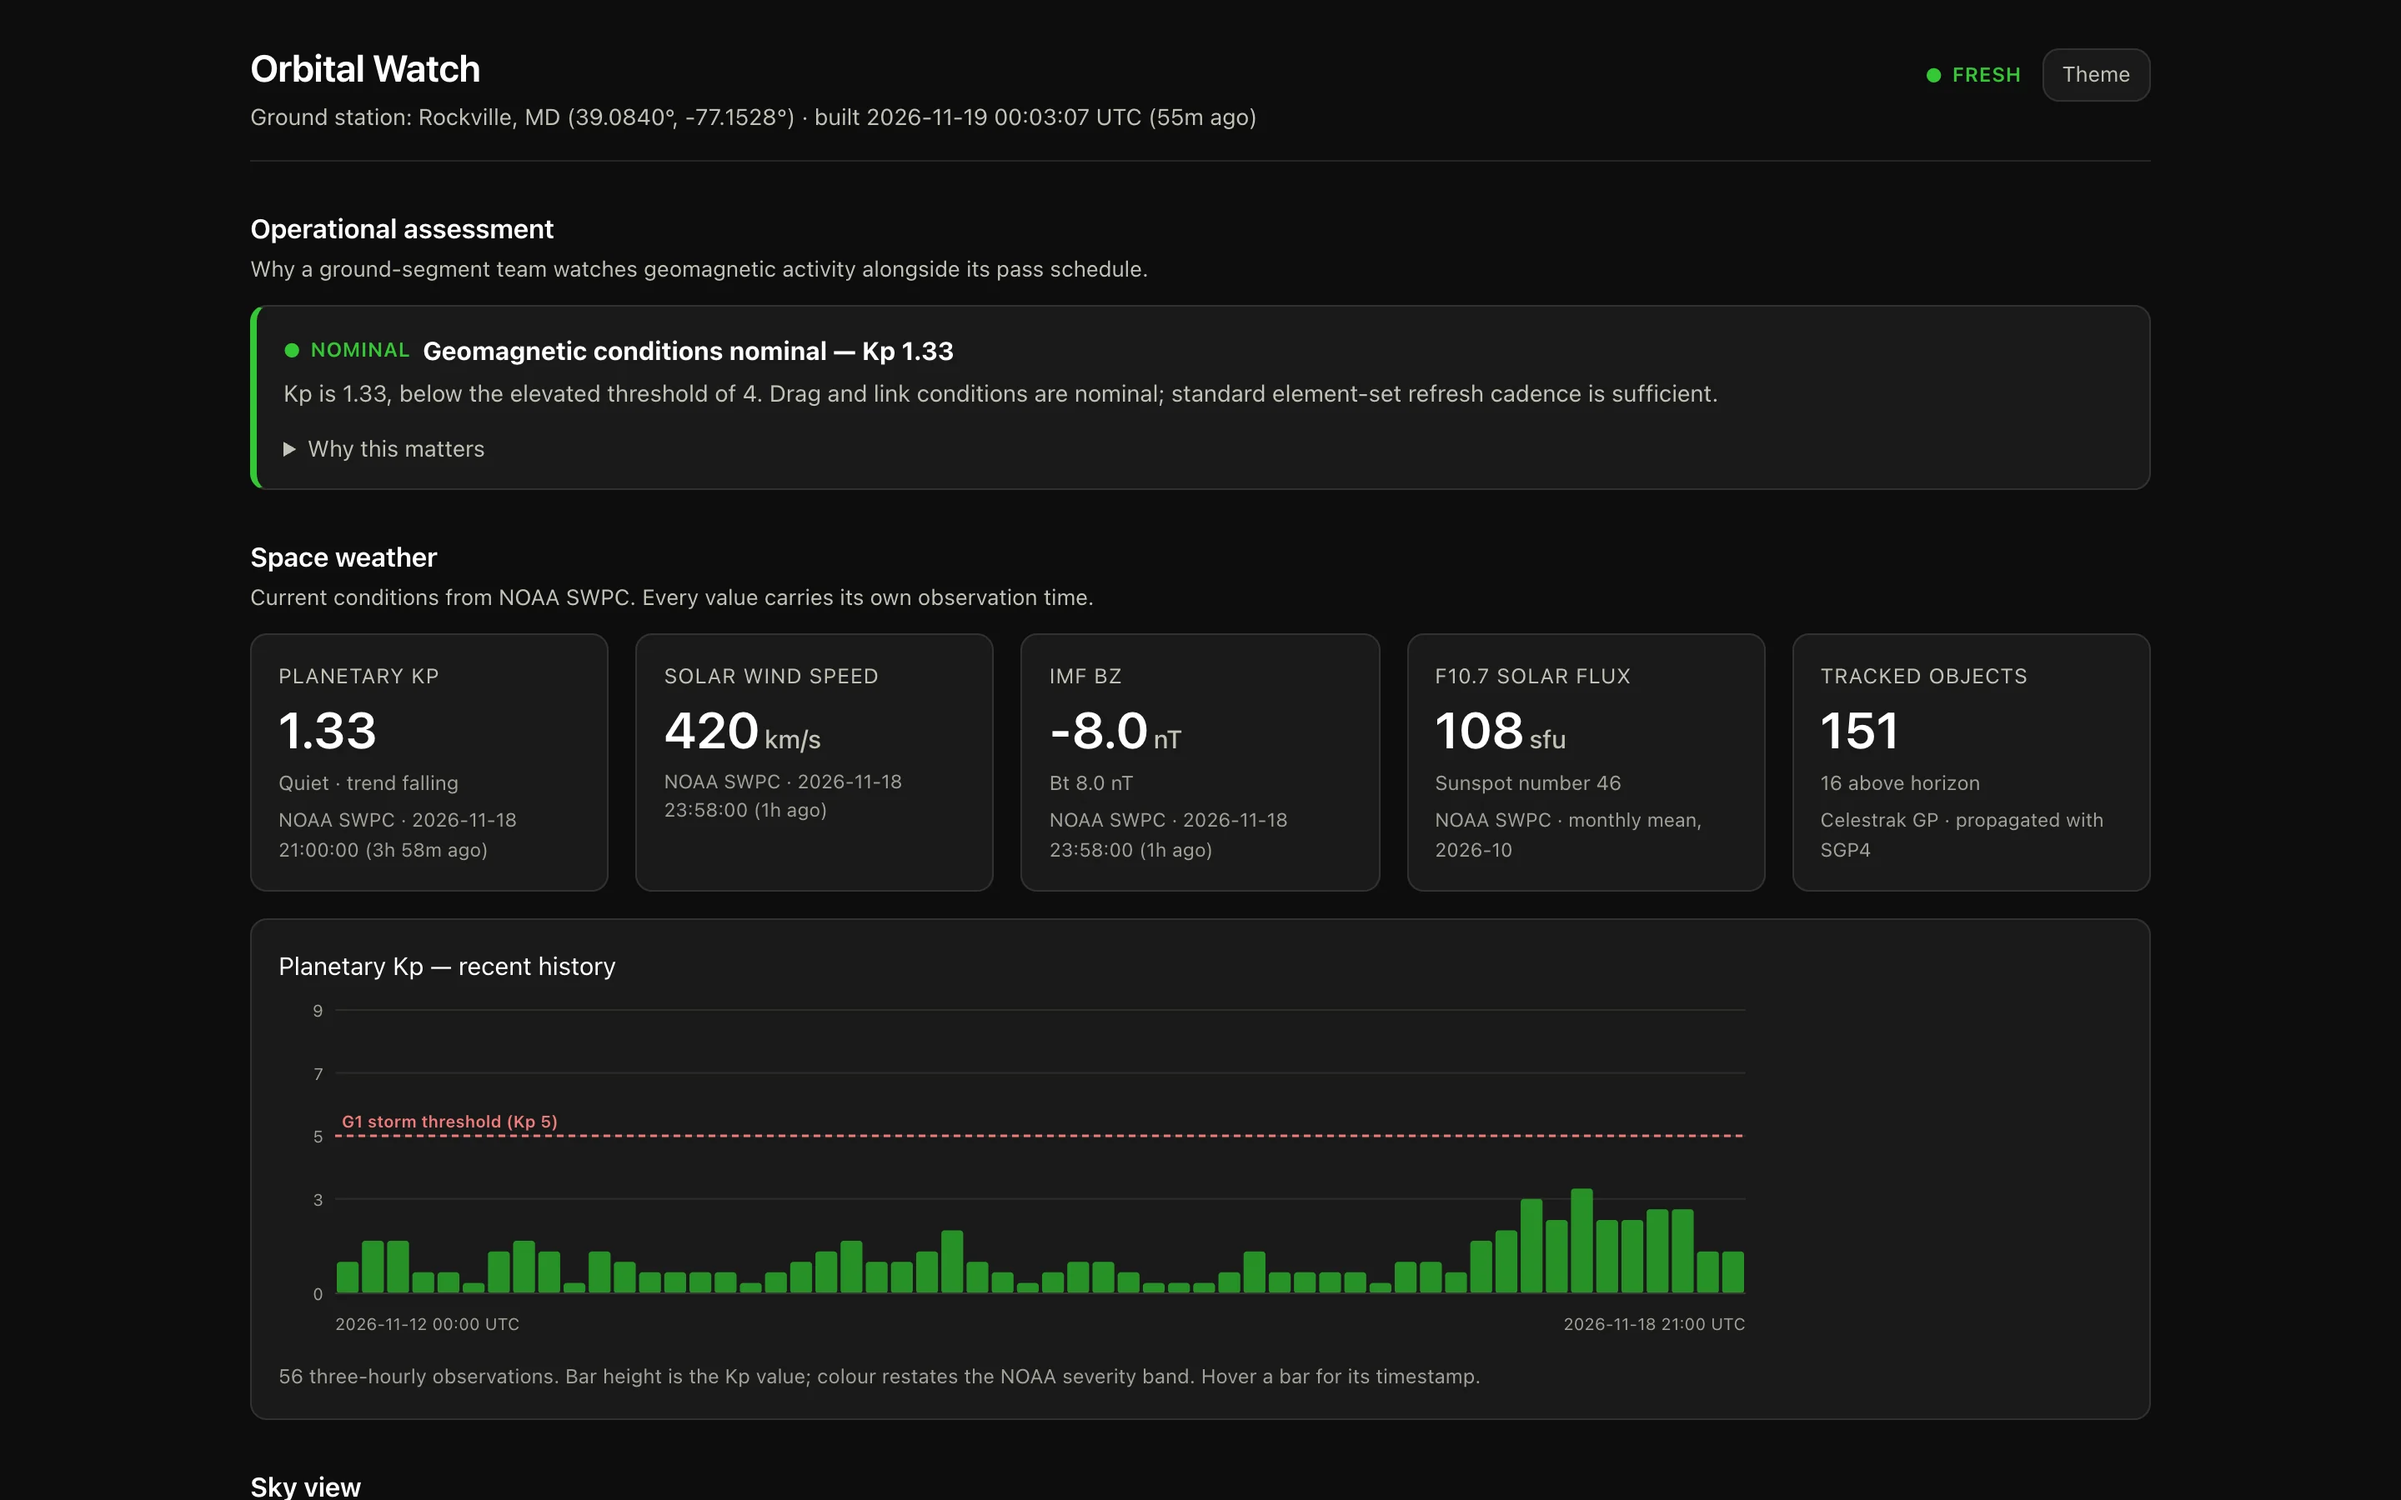
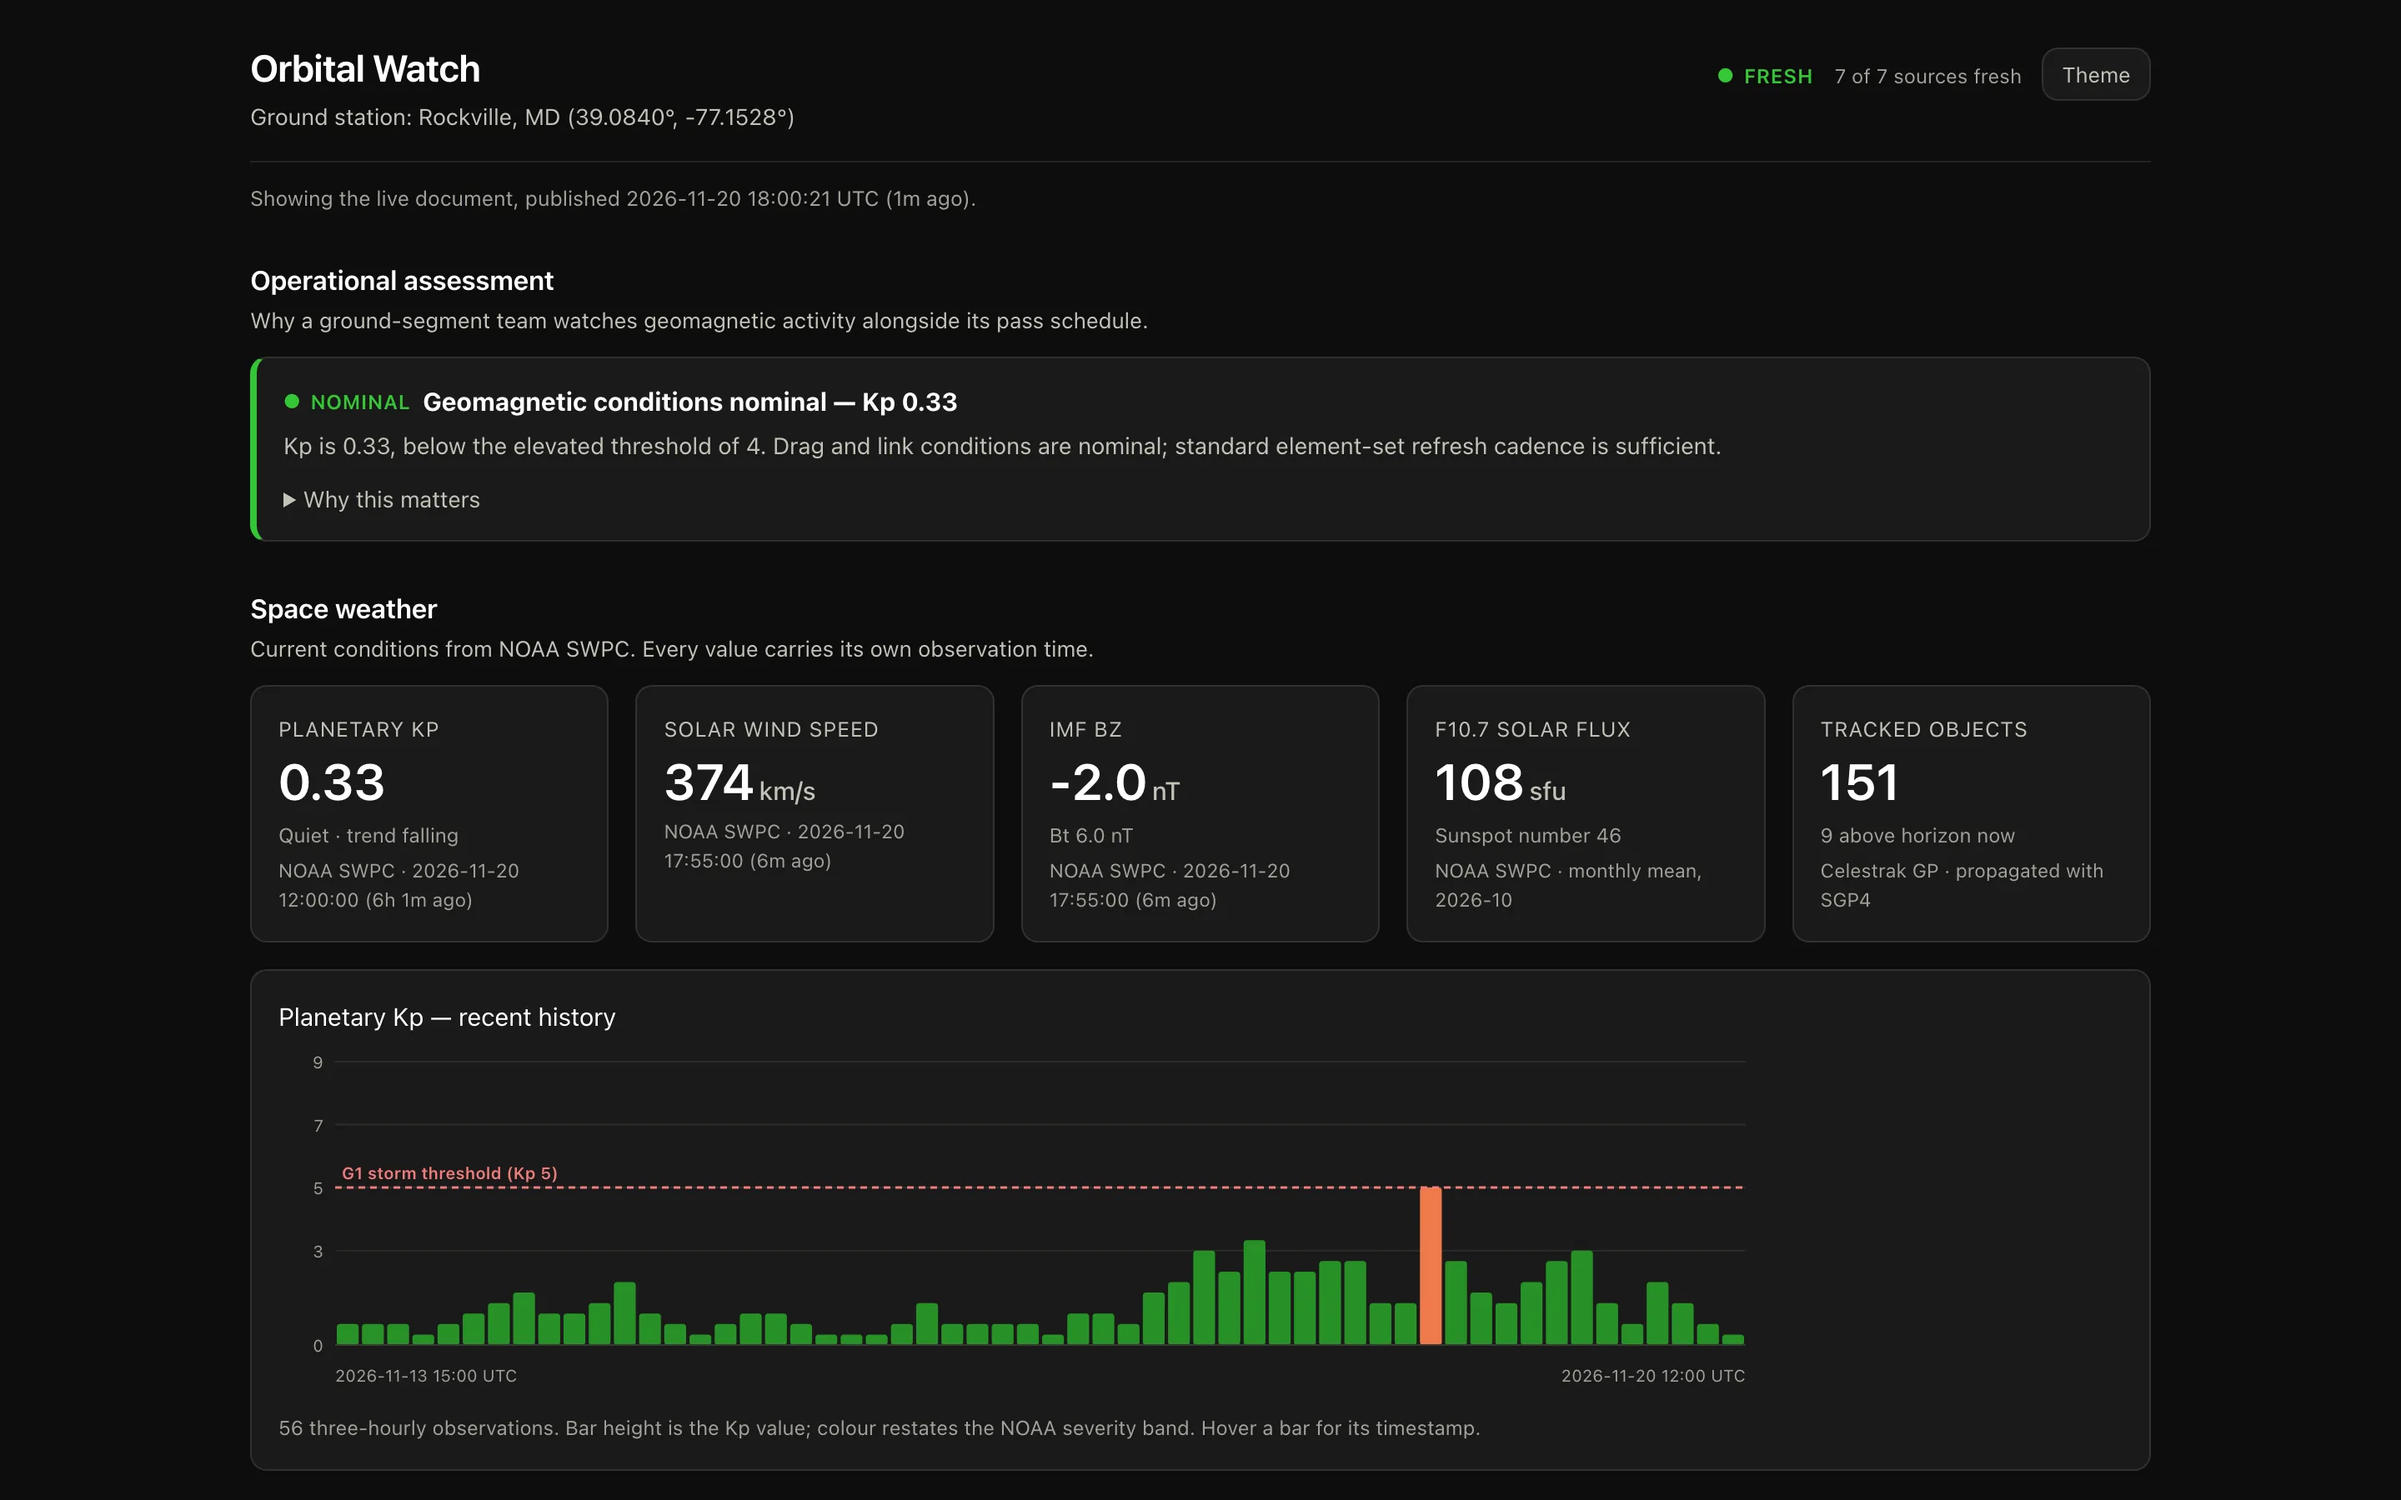
Orbital Watch screenshot from the day it moved to Google Cloud (#17)
Taken at 18:01 UTC on 20 November 2026 with all seven sources fresh; alt text and caption say so.

diff --git a/src/content/projects/orbital-watch.md b/src/content/projects/orbital-watch.md
@@ -18,8 +18,8 @@ code: https://github.com/rodrigopimenta10/orbital-watch
 statusId: orbital-watch
 screenshot:
   src: ../../assets/screens/orbital-watch.webp
-  alt: The Orbital Watch dashboard. A header marked FRESH with the build time, an operational assessment reading geomagnetic conditions nominal, five space-weather tiles and a chart of recent planetary Kp values.
-  caption: orbital.rodrigopimenta.com on 19 November 2026 (UTC). Taken with headless Chrome at 1440 by 900, at twice the pixel density.
+  alt: The Orbital Watch dashboard. A header marked FRESH, 7 of 7 sources fresh, with the time the data was published; an operational assessment reading geomagnetic conditions nominal, five space-weather tiles and a chart of recent planetary Kp values.
+  caption: orbital.rodrigopimenta.com on 20 November 2026 at 18:01 UTC, the day it moved to Google Cloud. Taken with headless Chrome at 1440 by 900, at twice the pixel density.
 diagram:
   name: orbital-watch
   caption: One scheduled job fetches what is due, computes, judges its own sources and publishes one document. The browser reads that document and never calls an upstream API, so an upstream outage cannot take the page down.
